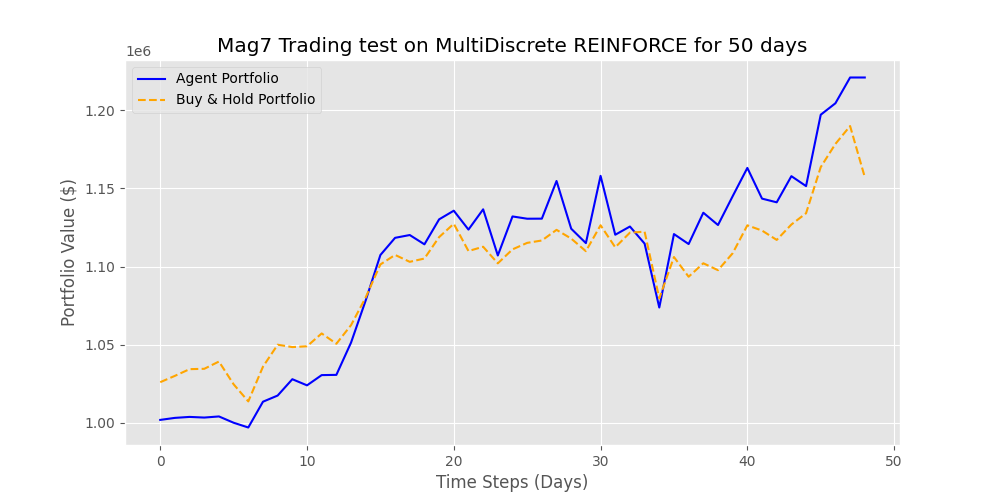
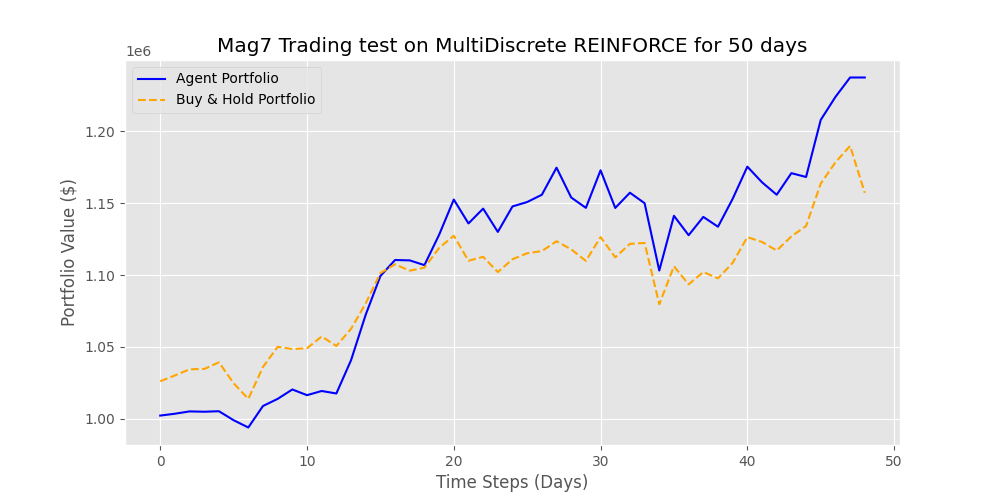
remove return norm

diff --git a/Solvers/MultiDiscreteREINFORCE.py b/Solvers/MultiDiscreteREINFORCE.py
@@ -168,7 +168,7 @@ class MultiDiscreteREINFORCE(AbstractSolver):
 
         # Compute advantage (delta)
         # Normalize returns for stability (Optional but recommended for REINFORCE)
-        returns = (returns - returns.mean()) / (returns.std() + 1e-9)
+        # returns = (returns - returns.mean()) / (returns.std() + 1e-9)
         
         deltas = returns - baselines
 
